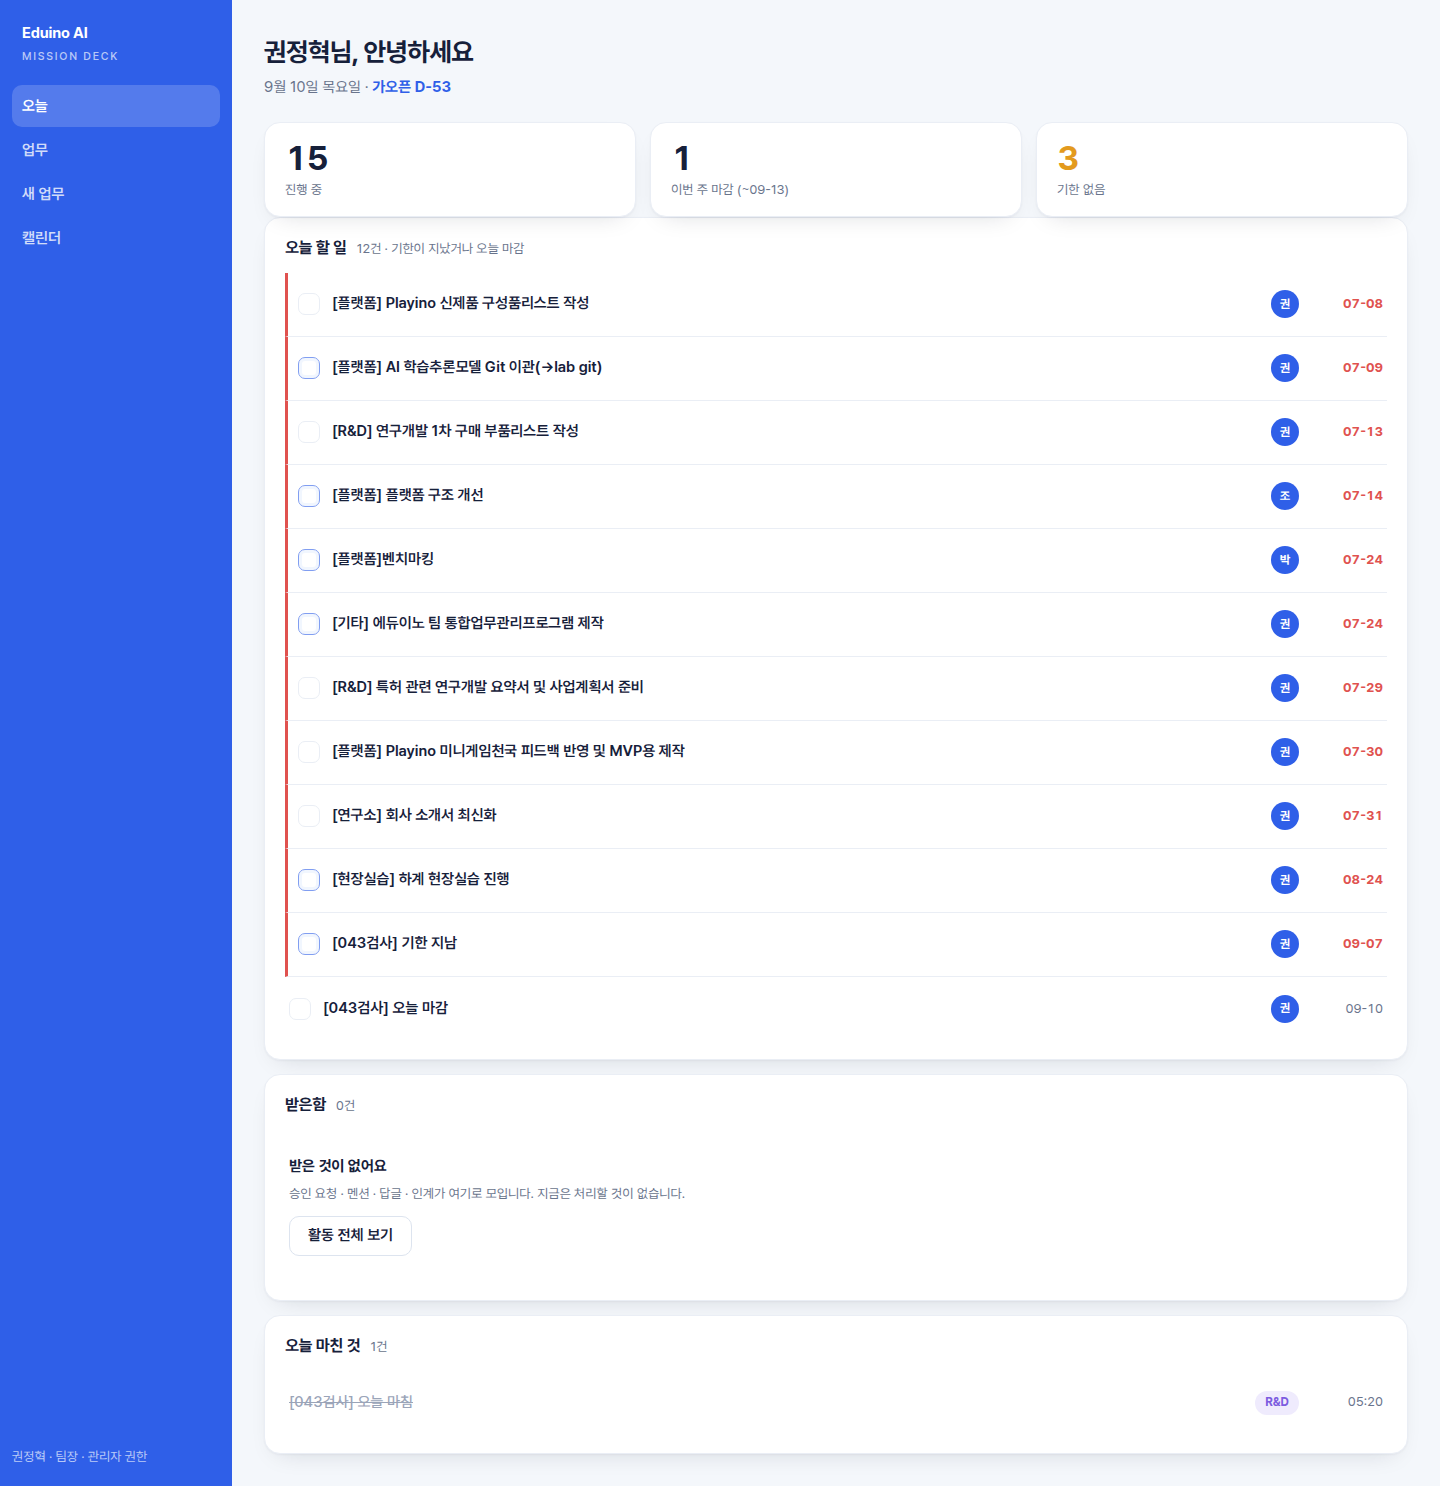
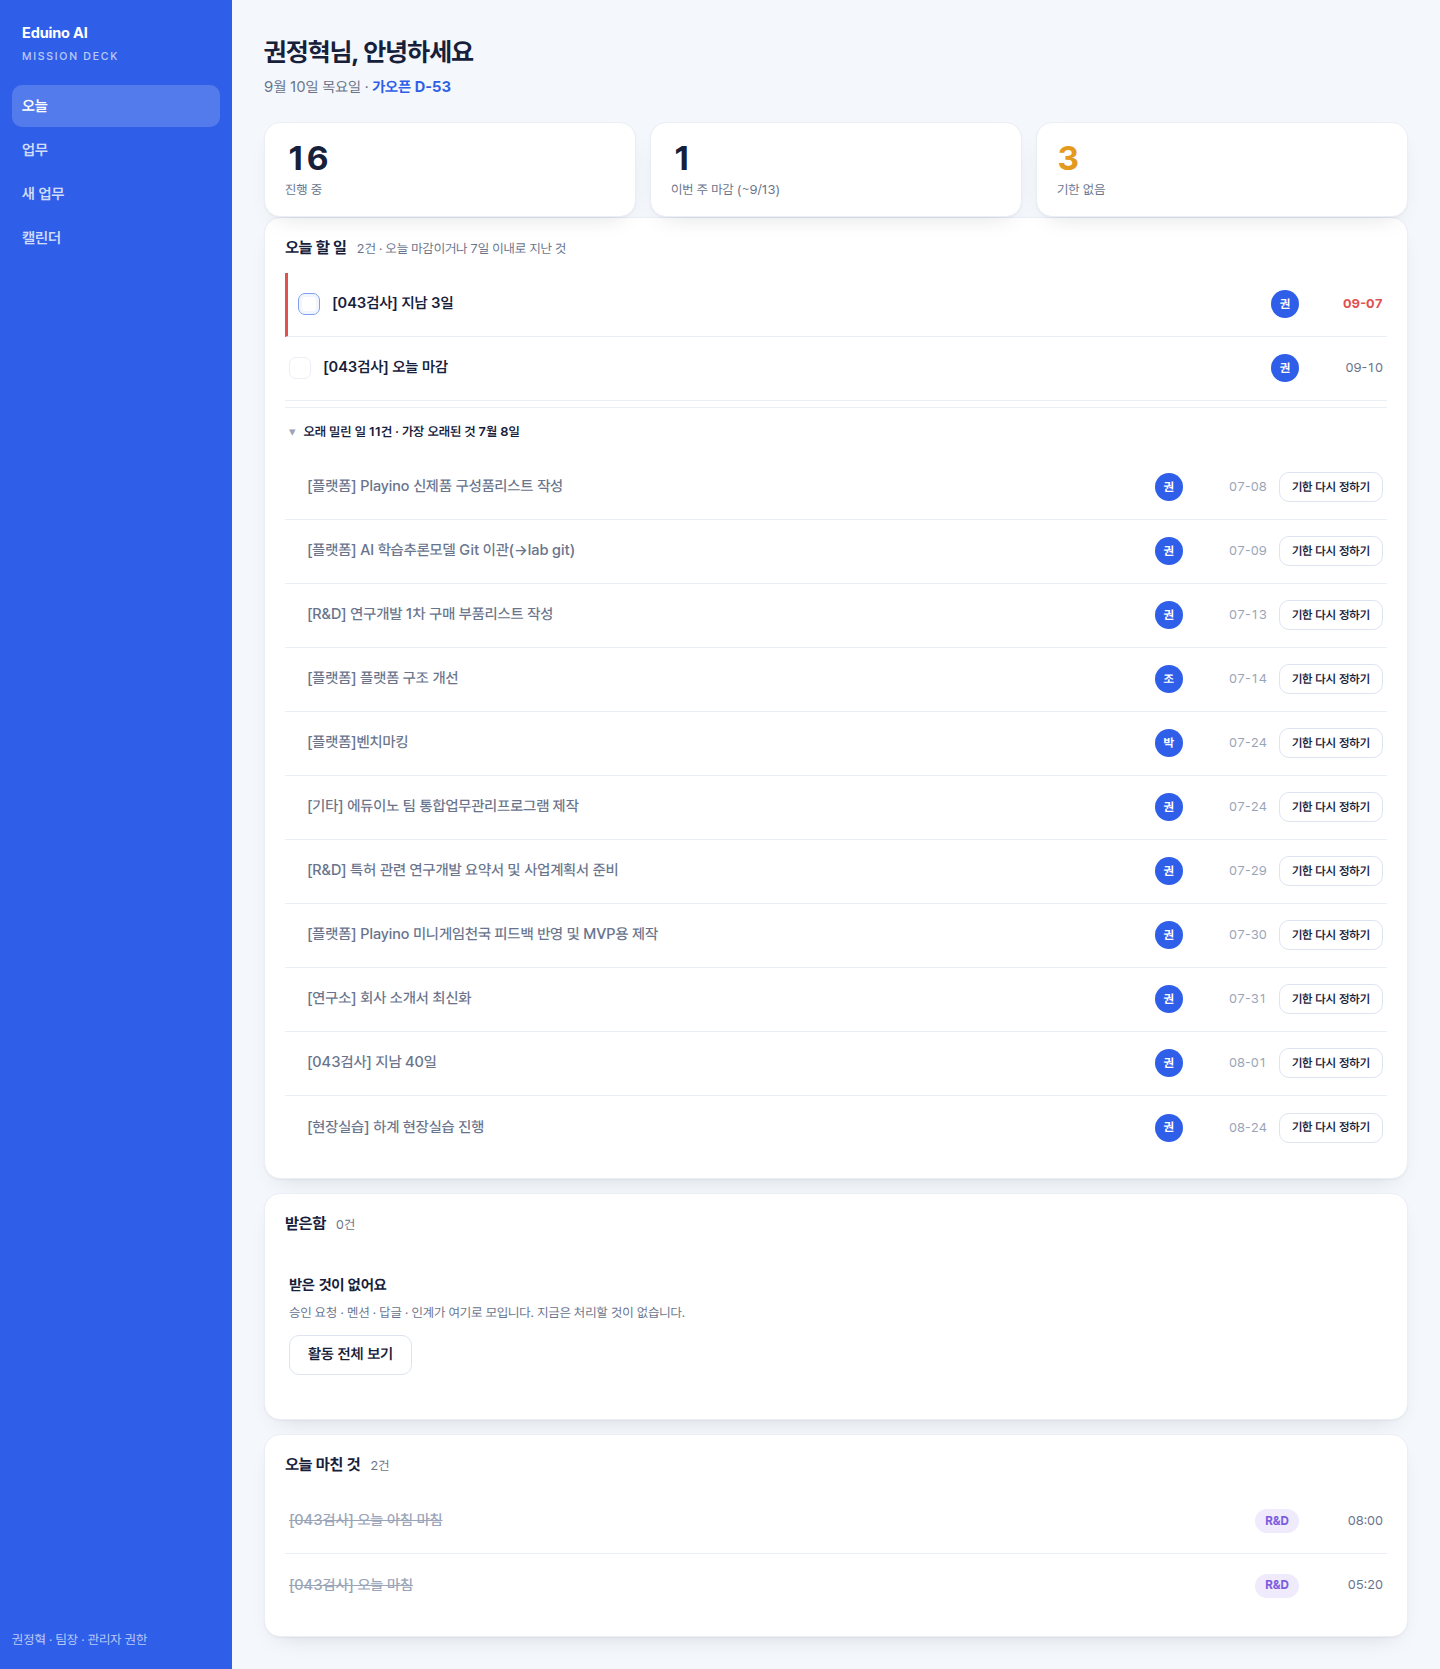
MD-P-2026-044 §A — 「오늘 할 일」을 가른다 · 죽은 링크 수습 (17/17)
지시자 정정: 두 달 밀린 업무는 오늘 할 일이 아니라 **기한을 다시 정할 일**이다.
043 에서는 지난 것을 전부 넣었고, 12건 중 11건이 코랄이 됐다 —
강조가 전부에 걸리면 강조가 아니라 배경이 된다.

· 오늘 할 일 = 오늘 마감 + 지남 7일 이내. **코랄 테두리는 여기에만.**
· 오래 밀린 일 = 지남 7일 초과. 접힌 줄 하나, 회색. 눌러 펼친다.
  「오래 밀린 일 11건 · 가장 오래된 것 7월 8일」
  펼친 행의 버튼은 「기한 다시 정하기」다 — 여기 있는 것들에 필요한 것은
  체크가 아니라 새 날짜다. 그래서 체크박스도 안 그린다.
· 7일은 달력 날짜 차이로 센다(`daysLate`). 밀리초를 나누지 않는다.
· 「이번 주 마감 (~9/13)」 — 앞의 0 을 뗐다.

제가 낸 죽은 링크를 수습했다
C-1 의 행 링크가 `${V3_BASE}/tasks/{id}` 였는데 **그 화면이 아직 없다**(C-4).
보이면 눌리고, 눌렀는데 없으면 없는 화면이 아니라 고장이다. `taskHref()` 를
`lib/v3/routes.ts` 한 곳에 두고 지금은 옛 상세 패널로 보낸다 — 스위치가 켜져도
`/tasks` 는 짝이 없어 옛 화면 그대로다. C-4 가 생기면 이 한 줄만 바꾼다.

펼친 행에서 「기한 07-08」이 왼쪽·오른쪽에 두 번 나왔다. 하위가 있을 때만
한 줄이 붙게 고쳤다 — 한 행에서 같은 말을 두 번 하지 않는다.

검사기 (조건을 관측보다 먼저 만든다)
① 지남 3일 → 오늘 할 일에 있고 계산된 테두리색이 코랄(224,82,79)
② 지남 40일 → 오늘 할 일에 없고 접힌 줄 안 · 코랄 아님 · 「기한 다시 정하기」 있음
③ 오늘 2 + 오래 11 = 13 = 기한이 오늘이거나 지난 것 전부 (새는 것 없음)
④ **KST 08:00 에 마친 업무가 오늘 목록에 뜬다** — §G 회귀 방지

v3-today-walk 17/17 · tsc 0.

Claude-Session: https://claude.ai/code/session_01Xpp231V8pSM3sVcBoRknqv

diff --git a/components/v3/TodayView.tsx b/components/v3/TodayView.tsx
@@ -16,18 +16,19 @@
 // 「없습니다」만 적으면 고장인지 비어 있는 건지 모른다. 셋 다 다른 말을 한다.
 import { useEffect, useMemo, useState } from "react";
 import Link from "next/link";
-import { Card, StatTile, ListRow, Empty, Tag } from "./parts";
+import { Card, StatTile, ListRow, Empty, Tag, Avatar } from "./parts";
 import type { CbState } from "./parts";
 import {
-  countToday, splitToday, childLine, shortDue, inboxItems, weekEnd, kstDate,
+  countToday, splitToday, childLine, shortDue, inboxItems, weekEnd, shortDate,
+  staleLine, STALE_DAYS,
   type TodayTask, type InboxItem,
 } from "@/lib/v3/today";
 import { areaOf, type AreaView } from "@/lib/v3/category";
-import { V3_BASE } from "@/lib/v3/routes";
+import { V3_BASE, taskHref } from "@/lib/v3/routes";
 
 /** 알림이 가리키는 곳. 종류마다 갈 데가 다르다. */
 function inboxHref(i: InboxItem): string {
-  if (i.refType === "task" && i.refId) return `${V3_BASE}/tasks/${i.refId}`;
+  if (i.refType === "task" && i.refId) return taskHref(i.refId);
   if (i.refType === "signal" && i.refId) return `/signals?panel=signal:${i.refId}`;
   if (i.refType === "handover") return "/handover";
   return "/activity";
@@ -60,6 +61,8 @@ export default function TodayView({
   const [tasks, setTasks] = useState<TodayTask[] | null>(null);
   const [inbox, setInbox] = useState<InboxItem[] | null>(null);
   const [err, setErr] = useState("");
+  // 오래 밀린 일은 **접혀서** 시작한다. 펼치는 것은 사람이 정한다.
+  const [openStale, setOpenStale] = useState(false);
 
   useEffect(() => {
     Promise.all([
@@ -99,11 +102,11 @@ export default function TodayView({
 
       <div className="v3-stats">
         <StatTile n={view?.counts.doing ?? 0} label="진행 중" />
-        <StatTile n={view?.counts.thisWeek ?? 0} label={`이번 주 마감 (~${weekEnd(today).slice(5)})`} />
+        <StatTile n={view?.counts.thisWeek ?? 0} label={`이번 주 마감 (~${shortDate(weekEnd(today))})`} />
         <StatTile n={view?.counts.noDue ?? 0} label="기한 없음" warn />
       </div>
 
-      <Card title="오늘 할 일" sub={view ? `${view.todo.length}건 · 기한이 지났거나 오늘 마감` : undefined}>
+      <Card title="오늘 할 일" sub={view ? `${view.todo.length}건 · 오늘 마감이거나 ${STALE_DAYS}일 이내로 지난 것` : undefined}>
         {!view ? <p className="v3-loading">불러오는 중…</p>
           : view.todo.length === 0 ? (
             <Empty
@@ -118,7 +121,7 @@ export default function TodayView({
           ) : view.todo.map((t) => (
             <ListRow
               key={t.id}
-              href={`${V3_BASE}/tasks/${t.id}`}
+              href={taskHref(t.id)}
               title={t.title}
               sub={childLine(t, tasks ?? [])}
               state={stateOf(t.status)}
@@ -127,6 +130,43 @@ export default function TodayView({
               late={t.late}
             />
           ))}
+
+        {/*
+          ── 오래 밀린 일 ──────────────────────────────────────────
+          두 달 밀린 업무는 **오늘 할 일이 아니라 기한을 다시 정할 일**이다
+          (044 §A). 위 목록과 섞으면 코랄이 거의 모든 행에 붙고, 강조가 전부에
+          걸리면 강조가 아니라 배경이 된다.
+
+          접되 **접혔다는 사실과 건수는 보인다.** 조용히 빼면 합이 안 맞는데
+          아무도 모른다. 행동 버튼은 「완료」가 아니라 「기한 다시 정하기」다 —
+          여기 있는 것들에 필요한 것은 체크가 아니라 새 날짜다.
+        */}
+        {view && view.stale.length > 0 && (
+          <div className="v3-stale">
+            <button type="button" className="v3-stale-h" aria-expanded={openStale}
+                    onClick={() => setOpenStale((v) => !v)}>
+              <span className="v3-stale-cv" aria-hidden="true">{openStale ? "▾" : "▸"}</span>
+              {staleLine(view.stale)}
+            </button>
+            {openStale && view.stale.map((t) => (
+              <div className="v3-row v3-stale-r" key={t.id}>
+                <span className="v3-row-main">
+                  <Link className="v3-row-t" href={taskHref(t.id)}>{t.title}</Link>
+                  {/* 하위가 있을 때만 한 줄. 기한은 오른쪽에 이미 있다 —
+                      한 행에서 같은 말을 두 번 하지 않는다. */}
+                  {childLine(t, tasks ?? []) && (
+                    <span className="v3-row-sub">{childLine(t, tasks ?? [])}</span>
+                  )}
+                </span>
+                <span className="v3-row-r">
+                  <Avatar name={t.assigneeName} />
+                  <span className="v3-due">{shortDue(t.dueDate)}</span>
+                  <Link className="v3-btn v3-btn-s" href={taskHref(t.id)}>기한 다시 정하기</Link>
+                </span>
+              </div>
+            ))}
+          </div>
+        )}
       </Card>
 
       <Card title="받은함" sub={inbox ? `${inbox.length}건` : undefined}>
@@ -161,7 +201,7 @@ export default function TodayView({
             return (
               <div className="v3-row done" key={t.id}>
                 <span className="v3-row-main">
-                  <Link className="v3-row-t" href={`${V3_BASE}/tasks/${t.id}`}>{t.title}</Link>
+                  <Link className="v3-row-t" href={taskHref(t.id)}>{t.title}</Link>
                 </span>
                 <span className="v3-row-r">
                   {a && <Tag area={a} />}

diff --git a/lib/v3/today.ts b/lib/v3/today.ts
@@ -53,6 +53,12 @@ export function countToday(tasks: TodayTask[], today: string): TodayCounts {
   };
 }
 
+/** `2026-09-13` → `9/13`. 앞의 0 을 떼서 짧게 (044 §A). */
+export function shortDate(date: string): string {
+  const [, m, d] = date.split("-");
+  return `${Number(m)}/${Number(d)}`;
+}
+
 /** 이번 주 일요일(KST). 오늘이 일요일이면 오늘이다. */
 export function weekEnd(today: string): string {
   const d = new Date(`${today}T00:00:00Z`);
@@ -61,11 +67,34 @@ export function weekEnd(today: string): string {
   return d.toISOString().slice(0, 10);
 }
 
+/**
+ * 「오래 밀린 일」의 경계. 이보다 더 지난 것은 오늘 할 일이 아니다.
+ *
+ * 지시자 정정(044 §A): 두 달 밀린 업무는 **오늘 할 일이 아니라 기한을 다시
+ * 정할 일**이다. 043 에서는 지난 것을 전부 「오늘 할 일」에 넣었고, 그러면
+ * 12건 중 11건이 코랄이 되어 **강조가 배경이 된다.**
+ */
+export const STALE_DAYS = 7;
+
 export interface TodayLists {
-  /** 기한이 지난 것 + 오늘 마감. **지난 것이 위**다. */
+  /** 오늘 마감 + 지남 7일 이내. **코랄 테두리는 여기에만.** */
   todo: (TodayTask & { late: boolean })[];
+  /** 지남 7일 초과. 접힌 줄 하나로 들어간다 — 회색. */
+  stale: (TodayTask & { late: boolean })[];
   /** 오늘 완료 처리된 것. */
   done: TodayTask[];
+}
+
+/**
+ * `due` 가 `today` 보다 **며칠 지났는가**. 안 지났으면 0 이하.
+ *
+ * 둘 다 `YYYY-MM-DD` 인 날짜값이라 UTC 자정으로 정규화해 빼면 **달력 날짜
+ * 차이**가 그대로 나온다. 밀리초를 나누는 것이 아니라 날짜를 세는 것이다.
+ */
+export function daysLate(due: string, today: string): number {
+  return Math.round(
+    (Date.parse(`${today}T00:00:00Z`) - Date.parse(`${due}T00:00:00Z`)) / 86400000
+  );
 }
 
 /**
@@ -78,16 +107,31 @@ export interface TodayLists {
  * 오늘의 성과가 아니다.
  */
 export function splitToday(tasks: TodayTask[], today: string): TodayLists {
-  const todo = tasks
+  // 기한이 오늘이거나 지난 것 전부 — 여기서 둘로 가른다.
+  const due = tasks
     .filter((t) => OPEN.has(t.status) && t.dueDate !== null && t.dueDate <= today)
     .map((t) => ({ ...t, late: (t.dueDate as string) < today }))
     .sort((a, b) => (a.dueDate as string).localeCompare(b.dueDate as string) || a.id - b.id);
+
+  // **합이 새지 않는다** — `todo` + `stale` 이 곧 `due` 다. 어느 쪽에도 안 드는
+  // 업무가 생기면 그 업무는 어디에서도 안 보인다.
+  const todo = due.filter((t) => daysLate(t.dueDate as string, today) <= STALE_DAYS);
+  const stale = due.filter((t) => daysLate(t.dueDate as string, today) > STALE_DAYS);
 
   const done = tasks
     .filter((t) => t.status === "done" && kstDate(t.completedAt) === today)
     .sort((a, b) => (b.completedAt ?? "").localeCompare(a.completedAt ?? "") || a.id - b.id);
 
-  return { todo, done };
+  return { todo, stale, done };
+}
+
+/** 접힌 줄에 적을 말. 「몇 건인지」와 「얼마나 오래됐는지」를 함께 낸다. */
+export function staleLine(stale: TodayTask[]): string | null {
+  if (stale.length === 0) return null;
+  const oldest = stale.reduce((a, b) =>
+    (a.dueDate as string) <= (b.dueDate as string) ? a : b);
+  const [, m, d] = (oldest.dueDate as string).split("-");
+  return `오래 밀린 일 ${stale.length}건 · 가장 오래된 것 ${Number(m)}월 ${Number(d)}일`;
 }
 
 /**

diff --git a/app/v3.css b/app/v3.css
@@ -197,3 +197,19 @@
 /* 안 읽음 — 점 하나. 「읽었다」와 「처리했다」는 다르므로 읽어도 목록엔 남는다. */
 .v3-unread { width: 8px; height: 8px; flex: 0 0 8px; border-radius: 50%;
   background: var(--v3-rail); }
+
+/* ── 044 §A — 오래 밀린 일 ─────────────────────────────────────────
+   접힌 줄 하나. **회색이다** — 코랄은 「오늘 할 일」에만 쓴다. 여기까지 코랄로
+   칠하면 강조가 전부에 걸려서 강조가 아니게 된다. */
+.v3-stale { margin-top: 6px; border-top: 1px solid var(--v3-line); }
+.v3-stale-h { display: flex; align-items: center; gap: 8px; width: 100%; min-height: 48px;
+  padding: 0 4px; border: 0; background: none; font: inherit; font-size: 13px;
+  font-weight: 600; color: var(--v3-ink-2); cursor: pointer; text-align: left; }
+.v3-stale-h:hover { color: var(--v3-ink); }
+.v3-stale-cv { color: var(--v3-ink-3); }
+/* 펼친 행은 체크가 없다 — 여기 있는 것들에 필요한 것은 체크가 아니라 새 날짜다. */
+.v3-stale-r { padding-left: 22px; }
+.v3-stale-r .v3-row-t { font-weight: 500; color: var(--v3-ink-2); }
+.v3-stale-r .v3-row-t:hover { color: var(--v3-ink); }
+.v3-stale-r .v3-due { color: var(--v3-ink-3); }
+.v3-btn-s { height: 30px; padding: 0 12px; font-size: 12px; text-decoration: none; }

diff --git a/lib/v3/routes.ts b/lib/v3/routes.ts
@@ -37,6 +37,20 @@ export const ROUTE_PAIRS: RoutePair[] = [
   { old: "/", v3: `${V3_BASE}`, what: "오늘 (옛 홈)" },
 ];
 
+/**
+ * 업무 하나로 가는 곳. **한 곳에서 정한다.**
+ *
+ * C-1 을 내면서 행 링크를 `${V3_BASE}/tasks/{id}` 로 적었는데 **그 화면이 아직
+ * 없다**(C-4 에서 생긴다). 보이면 눌리고, 눌렀는데 없으면 그건 없는 화면이
+ * 아니라 고장이다(§G). 그래서 지금은 옛 상세 패널로 보낸다 —
+ * 스위치가 켜져도 `/tasks` 는 짝이 없어 옛 화면 그대로다.
+ *
+ * C-4 가 생기면 **이 한 줄만** 바꾼다.
+ */
+export function taskHref(id: number): string {
+  return `/tasks?panel=task:${id}`;
+}
+
 /** 옛 경로가 v3 에서 어디로 가는가. 짝이 없으면 `null` — **보내지 않는다.** */
 export function v3Destination(oldPath: string): string | null {
   return ROUTE_PAIRS.find((p) => p.old === oldPath)?.v3 ?? null;
